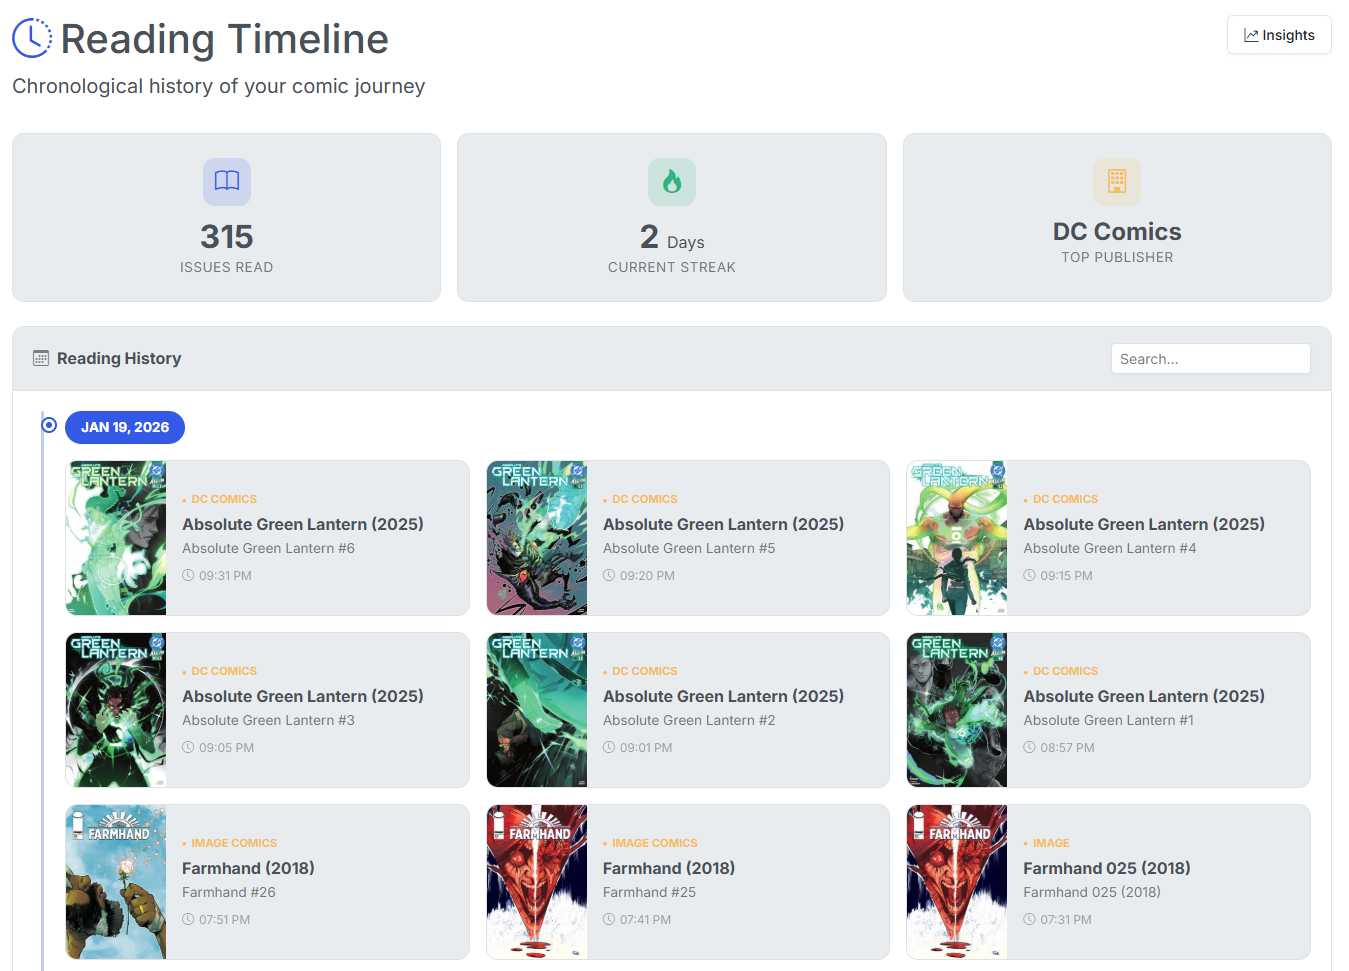
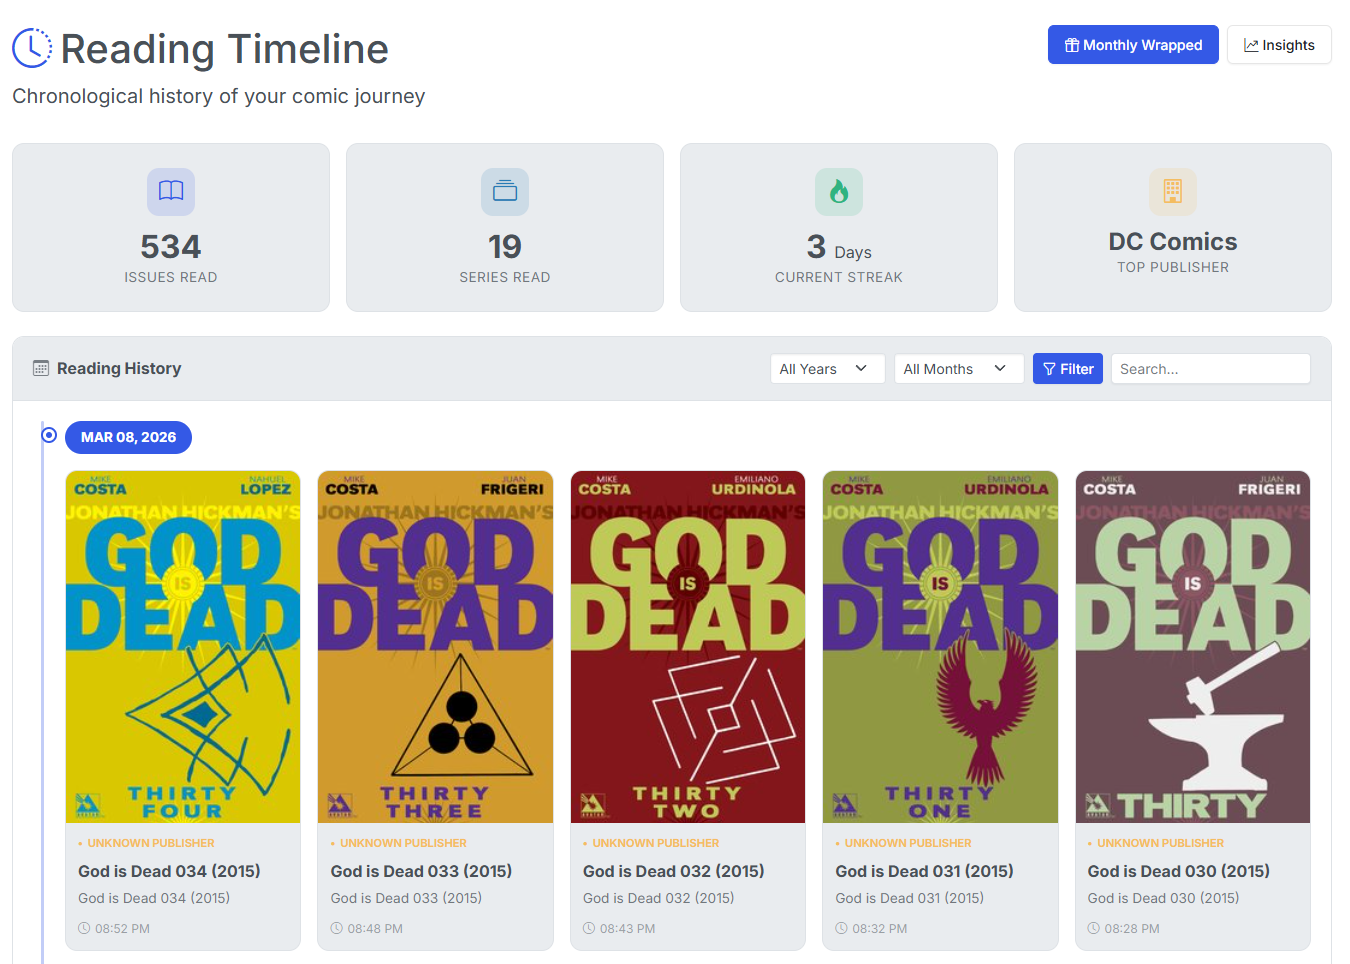
Updates for v4.10

diff --git a/docs/javascripts/lightbox.js b/docs/javascripts/lightbox.js
@@ -1,0 +1,49 @@
+document.addEventListener("DOMContentLoaded", function() {
+  // Create overlay element
+  const overlay = document.createElement("div");
+  overlay.id = "lightbox-overlay";
+  document.body.appendChild(overlay);
+
+  // Create image element inside overlay
+  const overlayImage = document.createElement("img");
+  overlay.appendChild(overlayImage);
+
+  // Close when clicking overlay
+  overlay.addEventListener("click", function() {
+    overlay.classList.remove("active");
+    // Wait for transition before hiding
+    setTimeout(() => {
+      if(!overlay.classList.contains("active")) {
+          overlay.style.display = "none";
+      }
+    }, 300);
+  });
+
+  // Attach click to all content images
+  const images = document.querySelectorAll('.md-content img:not(.twemoji)');
+  
+  images.forEach(img => {
+    // Exclude images that are inside links
+    if (img.parentElement.tagName.toLowerCase() === 'a') {
+      return;
+    }
+    
+    img.style.cursor = "pointer";
+    img.addEventListener("click", function(e) {
+      e.preventDefault();
+      e.stopPropagation();
+      overlayImage.src = this.src;
+      overlay.style.display = "flex";
+      // Force reflow
+      void overlay.offsetWidth;
+      overlay.classList.add("active");
+    });
+  });
+
+  // Close on Escape key
+  document.addEventListener("keydown", function(e) {
+    if (e.key === "Escape" && overlay.classList.contains("active")) {
+      overlay.click();
+    }
+  });
+});

diff --git a/docs/stylesheets/extra.css b/docs/stylesheets/extra.css
@@ -875,6 +875,20 @@ body:has(.clu-landing) .md-header {
   display: block;
   margin-left: auto;
   margin-right: auto;
+  box-shadow: var(--shadow-sm);
+  border-radius: 4px;
+}
+
+.thirty {
+  width: 30%;
+}
+
+.half {
+  width: 50%;
+}
+
+.sixty {
+  width: 60%;
 }
 
 /* ==========================================================================
@@ -910,4 +924,44 @@ body:has(.clu-landing) .md-header {
   .showcase-item {
     margin-bottom: 4rem;
   }
+}
+
+/* ==========================================================================
+   LIGHTBOX OVERLAY
+   ========================================================================== */
+
+#lightbox-overlay {
+  display: none;
+  position: fixed;
+  top: 0;
+  left: 0;
+  width: 100%;
+  height: 100%;
+  background: rgba(13, 17, 23, 0.95);
+  backdrop-filter: blur(5px);
+  -webkit-backdrop-filter: blur(5px);
+  z-index: 10000;
+  justify-content: center;
+  align-items: center;
+  opacity: 0;
+  transition: opacity 0.3s ease;
+  cursor: zoom-out;
+}
+
+#lightbox-overlay.active {
+  opacity: 1;
+}
+
+#lightbox-overlay img {
+  max-width: 90%;
+  max-height: 90vh;
+  object-fit: contain;
+  border-radius: 4px;
+  box-shadow: var(--shadow-lg), 0 0 30px rgba(0, 0, 0, 0.5);
+  transform: scale(0.95);
+  transition: transform 0.3s cubic-bezier(0.16, 1, 0.3, 1);
+}
+
+#lightbox-overlay.active img {
+  transform: scale(1);
 }

diff --git a/docs/blog/posts/source-wall-and-safety-update.md b/docs/blog/posts/source-wall-and-safety-update.md
@@ -23,7 +23,13 @@ Fine-tuning your comic metadata just got a lot easier. In v4.10, we've introduce
 
 ### **Soft Delete & The Trash Can**
 
-We’ve all had that "oh no" moment after a misclick. You can now enable a **Trash** folder for soft deletes. Instead of files vanishing into the digital void, they’ll be moved to a temporary staging area, giving you a safety net for your rare digital issues.
+![Trash](../../assets/settings/trash.png){: .center-image}
+
+We’ve all had that "oh no" moment after a misclick. You can now enable a **Trash** folder for soft deletes. Instead of files vanishing immediately, they’ll be moved to a temporary staging area, where you can review and restore them if needed. 
+
+![Trash Settings](../../assets/settings/trash-settings.png){: .center-image}
+
+The default location for the Trash folder is `/cache/trash` and the default size is `1024MB | 1 GB`. You can adjust these settings in the settings menu. Once you reach the limit, the oldest files will be deleted to make room for new ones.
 
 ---
 
@@ -31,21 +37,30 @@ We’ve all had that "oh no" moment after a misclick. You can now enable a **Tra
 
 ### **Metadata & Search Intelligence**
 
-* **Smart Search Fallbacks:** If an exact metadata match isn't found, the system now automatically adjusts its search parameters to help find the next best fit—perfect for those tricky one-shots or indie titles.
-* **Result Sorting:** You can now sort and filter your metadata selection results, making it much faster to tag your collection accurately.
-* **CBL Metadata-First Logic:** Reading lists in the CBL format now prioritize existing metadata, ensuring your curated lists are more accurate and resilient to file name changes.
+* **Smart Search Fallbacks:** If an exact metadata match isn't found, the system now automatically adjusts its search parameters to help find the next best fit—perfect for those tricky one-shots or indie titles. For example, `Batman: Legends of the Dark Knight` would be matched to `Batman: Legends of the Dark Knight`, `Batman Legends of the Dark Knight` or `Batman - Legends of the Dark Knight`
+
+* **Result Sorting:** You can now sort and filter your metadata selection results if CLU cannot find a match, making it much faster to tag your collection accurately.
+
+![Sort Results](../../assets/file/metadata-sort.png){: .center-image}
+
+* **CBL Metadata-First Logic:** Reading lists in the CBL format now prioritize existing metadata, ensuring your curated lists are more accurate and resilient to file name changes. Additionally, progress updates are now displayed in the active operations UI, allowing you to navigate away from the operation and come back to it later, while still monitoring its progress.
 
 ### **User Experience & Navigation**
 
-* **Visual Progress:** Moving large folders or collections? We’ve updated the **Progress UI** so you can actually see the status of your file operations in real-time.
-* **Refined Navigation:** Collection navigation has been revised for a smoother flow, making it easier to jump between series and individual issues.
-* **Time Zone & Jitter Sync:** Settings now include time zone awareness and "Jitter" syncs. This helps spread out server load and ensures scheduled tasks happen exactly when you expect them to.
+![Active Operations](../../assets/active.png){: .center-image}
+
+* **More Active Operations:** Moving large folders or collections? We’ve updated the *Active Operations* UI so you can navigate away from the operation and come back to it later, while still monitoring its progress.
+
+![Hide from Timeline](../../assets/insights/hide.png){: .center-image}
+
+* **Hide from Timeline:** You can now hide comics you have read from your timeline. Hidden comics will still count in your overall stats (issues read and pages read). Additional, you can also set an issue as Unread.
 
 ---
 
 ## 📦 Technical Maintenance & "Under the Hood"
 
-* **Metron API Optimization:** We’ve significantly reduced the number of calls to the Metron API by optimizing series lookups and credential checks. This keeps us well within the new rate limits and speeds up the entire app.
-* **Code Refactoring:** A major breakout of JavaScript functions for Comics and Folders makes the codebase much easier to maintain and faster to execute.
+* **Metron API Optimization:** We’ve significantly reduced the number of calls to the Metron API by optimizing series lookups and credential checks. This keeps us within the Metron's new rate limits and speeds up the series sync process.
+* **Time Zone & Jitter Sync:** Settings now include time zone awareness and "Jitter" syncs. This helps spread out 3rd party provider load and ensures scheduled tasks happen within the timeframe you expect them to.
+* **Code Refactoring:** A major breakout of JavaScript functions for Comics and Folders makes the codebase much easier to maintain and faster to execute. This enabled easier embeds of file and folder specific functions to all pages.
 * **Dependency Updates:** Updated core GitHub Actions (Checkout and Setup-Python) to the latest versions for better security and build performance.
 * **Contributor Spotlight:** Huge thanks to **@MikiiTakagi** for adding issue templates for bug reports and enhancements—making it easier for the community to help us grow!

diff --git a/docs/features/collection/source-wall.md b/docs/features/collection/source-wall.md
@@ -1,0 +1,45 @@
+# Source Wall
+
+![Source Wall](../../assets/source/files.png)
+/// caption
+Example Source Wall
+///
+
+Fine-tuning your comic metadata just got a lot easier. In v4.10, we've introduced the Source Wall view (naming inspired by Metron). This view is a table-based view of your libray, that also includes the metadata.
+
+![Publishers](../../assets/source/publishers.png)
+/// caption
+Publishers
+///
+
+## Config Options
+
+You can configure the Source Wall view by clicking the <i class="bi bi-layout-three-columns fs-1 text-icon"></i> icon in the top right corner of the Source Wall view.
+
+![Config Options](../../assets/source/config.png){: .center-image}
+/// caption
+Config Options
+///
+
+This allows you to show/hide the columns that are displayed in the Source Wall view.
+
+## Issue Options
+
+You can read any issuse in this view by clicking the <i class="bi bi-book fs-2 text-info"></i> icon in the row of the issue.
+
+Additionally you can perform 9 actions on issues via the dropdown menu that can be accessed by clicking the <i class="bi bi-layout-three-dot fs-2 text-icon"></i> menu.
+
+![Issue Dropdown Menu](../../assets/source/actions.png){: .center-image}
+/// caption
+Example Issue Dropdown Menu
+///
+
+1. **Crop Cover**: This will crop the first image of the CBZ, saving the right-side as the new cover and the full image as the 2nd image. This is the same process as [Crop Cover](../single-file-features/crop.md).
+2. **Remove First Image**: This will remove the first image from the issue. This is same feature as [Remove First Image](../single-file-features/remove.md). I recommend using this option after using "Edit File" as to ensure the incorrect image is truly the first image in the file.
+3. **Edit Pages**: This unpacks the CBZ and allows you to edit the files. See a full list of features in the [Edit File](../single-file-features/edit.md) section.
+4. **Rebuild**: This will quickly rebuild a incorrectly built CBZ file and/or convert a CBR to a CBZ file. This is the same feature as [Rebuild](../single-file-features/rebuild.md).
+5. **Enhance**: This will enhance the image quality of all images in the issue. This is the same feature as [Enhance](../single-file-features/enhance.md).
+6. **Add Blank to End**: Adds a blank `.png` file named `zzzz9999` to the file. This corrects display issues with Manga files.
+7. **Fetch Metadata**: The retrieves the metadata for the issue and generates the `ComicInfo.xml` file. This is the same process documented at [Get ComicInfo.xml](../file-management/comicinfo.md#get-metadata-for-a-single-issue)
+8. **Info**: View the full contents of the  `ComicInfo.xml` and other file information (number of image, image size, etc)
+9. **Delete**: This will delete the issue. This is the same feature as [Delete](../single-file-features/delete.md).

diff --git a/docs/features/insights/timeline.md b/docs/features/insights/timeline.md
@@ -4,4 +4,31 @@
 
 The Timeline view shows your full reading history over time. 
 
-As you scroll, your history is lazy-loaded in the background allowing you to see your entire detailed reading history in one place.
+As you scroll, your history is lazy-loaded in the background allowing you to see your entire detailed reading history in one place. 
+
+## Timeline Features
+
+Multiple options are available on the Timeline view.
+
+### Filter
+
+Using the drop-downs and buttons at the time, you can filter your timeline to a specific *Year* and/or *Month*. You can also use the *Search* input to filter your timeline to see when exactly you read a specific issue or series. 
+
+### Hide or Mark as Unread
+
+![Hide from Timeline](../../assets/insights/hide.png){: .center-image .sixty}
+
+You can now hide comics you have read from your timeline. Hidden comics will still count in your overall stats (issues read and pages read). Additional, you can also set an issue as Unread.
+
+### Generate Montly "Wrapped" Slides
+
+![Monthly Wrapped](../../assets/insights/wrapped-options.png){: .center-image .half}
+
+You can generate a visual monthy summary for any month of your reading history. Simply click the **Monthly Wrapped** button at the top and select the options (see image above). Click **Generate** and you'll be presented with 2 images sized for sharing on social media or other platforms.
+
+<div style="text-align: center;" markdown="1">
+
+![Monthly All Issues](../../assets/insights/monthly_all_issues.png){: .thirty} ![Monthly Recap](../../assets/insights/monthly_recap.png){:  .thirty}
+
+</div>
+

diff --git a/docs/features/collection/publishers.md b/docs/features/collection/publishers.md
@@ -14,7 +14,7 @@ Each folder will have a <i class="bi bi-three-dots-vertical fs-2 text-icon"></i>
 
 ## Publisher Folders
 
-![Publisher Dropdown Menu](../../assets/collection/pub-dropdown.png)
+![Publisher Dropdown Menu](../../assets/collection/pub-dropdown.png){: .center-image}
 
 There are 3 options in the dropdown menu:
 
@@ -32,21 +32,21 @@ All folders support custom thumbnails. CLU will look for an image file named `fo
 
 ### Uploading a Publisher Thumbnail
 
-![Publisher without Thumbnail](../../assets/collection/upload-pub-01.png)
+![Publisher without Thumbnail](../../assets/collection/upload-pub-01.png){: .center-image}
 /// caption
 Publisher without Thumbnail
 ///
 
 You can upload a thumbnail for a publisher by dragging and dropping an image file onto the publisher folder.
 
-![Uploading a Thumbnail](../../assets/collection/upload-pub-02.png)
+![Uploading a Thumbnail](../../assets/collection/upload-pub-02.png){: .center-image}
 /// caption
 Uploading a Thumbnail
 ///
 
 Once you browse back to the publisher page, you should see your thumbnail.
 
-![Publisher with Thumbnail](../../assets/collection/upload-pub-03.png)
+![Publisher with Thumbnail](../../assets/collection/upload-pub-03.png){: .center-image}
 /// caption
 Publisher with Thumbnail
 ///

diff --git a/docs/features/file-management/move.md b/docs/features/file-management/move.md
@@ -10,11 +10,11 @@ When the File Manager is loaded, it will display all files in your <mark style="
 
 ### Moving Files
 
+![Move Files](../../assets/file/move.png){: .center-image}
+
 Using the file manager, navigate to the file(s) that you wish to move. Simply click and drag it to the location you want to file to move.
 
 The file manager supports dragging and dropping files/directories to/and from the **Source** and **Destination**. All examples will demonstrate **Source --> Destination,** but either direction will work.
-
-![Move Files](../../assets/file/move.png){: .center-image}
 
 ### Moving Directories
 
@@ -22,7 +22,9 @@ Similar to files, navigate to the directory you wish to move. Click and drag it 
 
 ![Moving a Directory](../../assets/file/move_dir.png){: .center-image}
 
-You'll see the directory automatically update in the new location
+If you move a large file(s) or a directory, the UI will indicate the move as *in progress* and the status will be displayed in the Action Items area in the header as well, allowing you to navigate away and continue monitoring.
+
+![Move Progress](../../assets/file/moving.png){: .center-image}
 
 ### Select Multiple
 

diff --git a/docs/features/collection/series.md b/docs/features/collection/series.md
@@ -1,6 +1,6 @@
 # Collection Browsing (Series)
 
-![Collection Series Landing Page](../../assets/collection/publisher.png)
+![Collection Series Landing Page](../../assets/collection/publisher.png){: .center-image}
 /// caption
 Example Collection Series Page
 ///
@@ -10,7 +10,7 @@ Once you navigate within a publisher, you will see a list of folders (series) or
 ## Series Options
 For a series folder (any folder that is non-root / non-publisher), there are 3 options in the dropdown menu that can be accessed by clicking the <i class="bi bi-three-dots-vertical fs-2 text-icon"></i> menu.
 
-![Series Dropdown Menu](../../assets/collection/series-dropdown.png)
+![Series Dropdown Menu](../../assets/collection/series-dropdown.png){: .center-image}
 /// caption
 Example Series Dropdown Menu
 ///
@@ -21,7 +21,7 @@ Example Series Dropdown Menu
 
 ### Generating Thumbnails
 
-![Generating Thumbnails](../../assets/collection/thumbnail-demo.gif)
+![Generating Thumbnails](../../assets/collection/thumbnail-demo.gif){: .center-image}
 /// caption
 Example of Generating Thumbnails
 ///

diff --git a/docs/features/collection/issues.md b/docs/features/collection/issues.md
@@ -1,6 +1,6 @@
 # Collection Browsing (Issues)
 
-![Issues Page](../../assets/collection/issues.png)
+![Issues Page](../../assets/collection/issues.png){: .center-image}
 /// caption
 Example Issues Page
 ///
@@ -9,7 +9,7 @@ When you navigate to a folder (series) with only files (issues), you will see a 
 
 To ensure you can quickly determine the issue number, the issue number will be displayed in the top right corner of the cover.
 
-![Issue Number](../../assets/collection/issue_number.png)
+![Issue Number](../../assets/collection/issue_number.png){: .center-image}
 /// caption
 Issue Number
 ///
@@ -17,7 +17,7 @@ Issue Number
 ## Issue Options
 For issues, there are 6 options in the dropdown menu that can be accessed by clicking the <i class="bi bi-three-dots-vertical fs-2 text-icon"></i> menu.
 
-![Issue Dropdown Menu](../../assets/collection/issue-dropdown.png)
+![Issue Dropdown Menu](../../assets/collection/issue-dropdown.png){: .center-image}
 /// caption
 Example Issue Dropdown Menu
 ///
